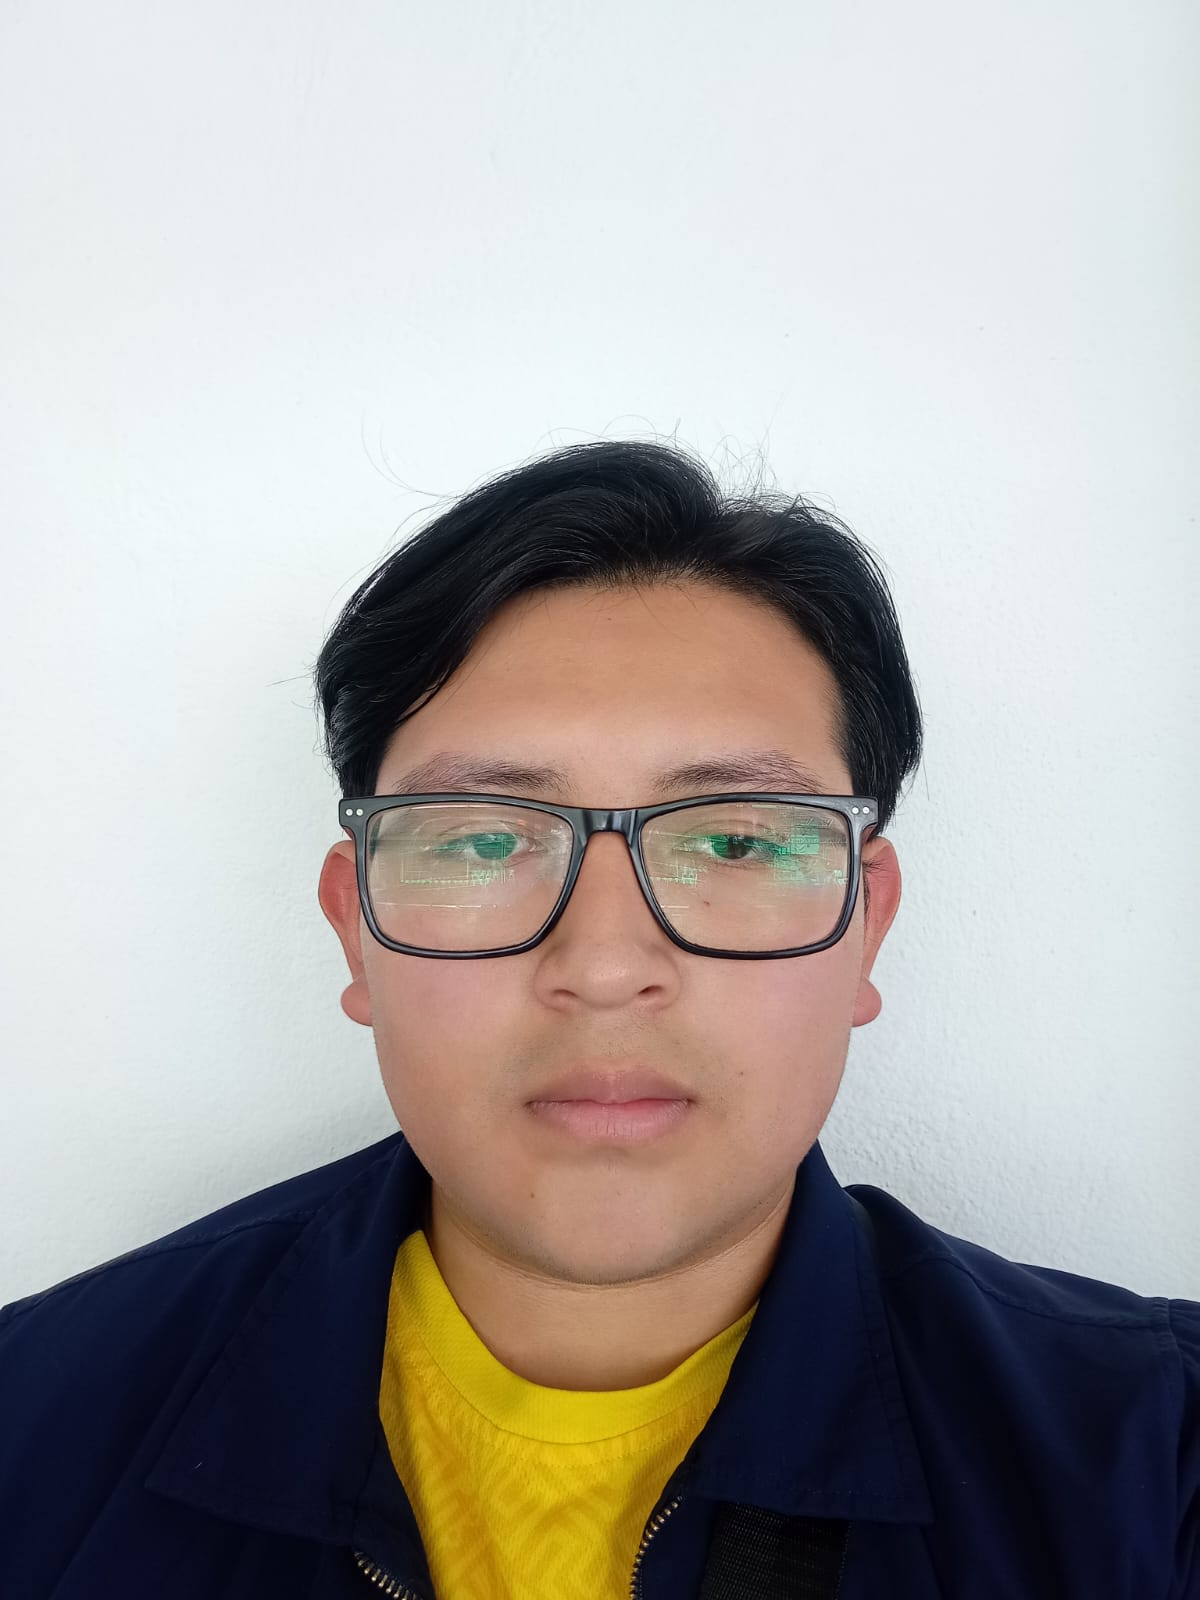
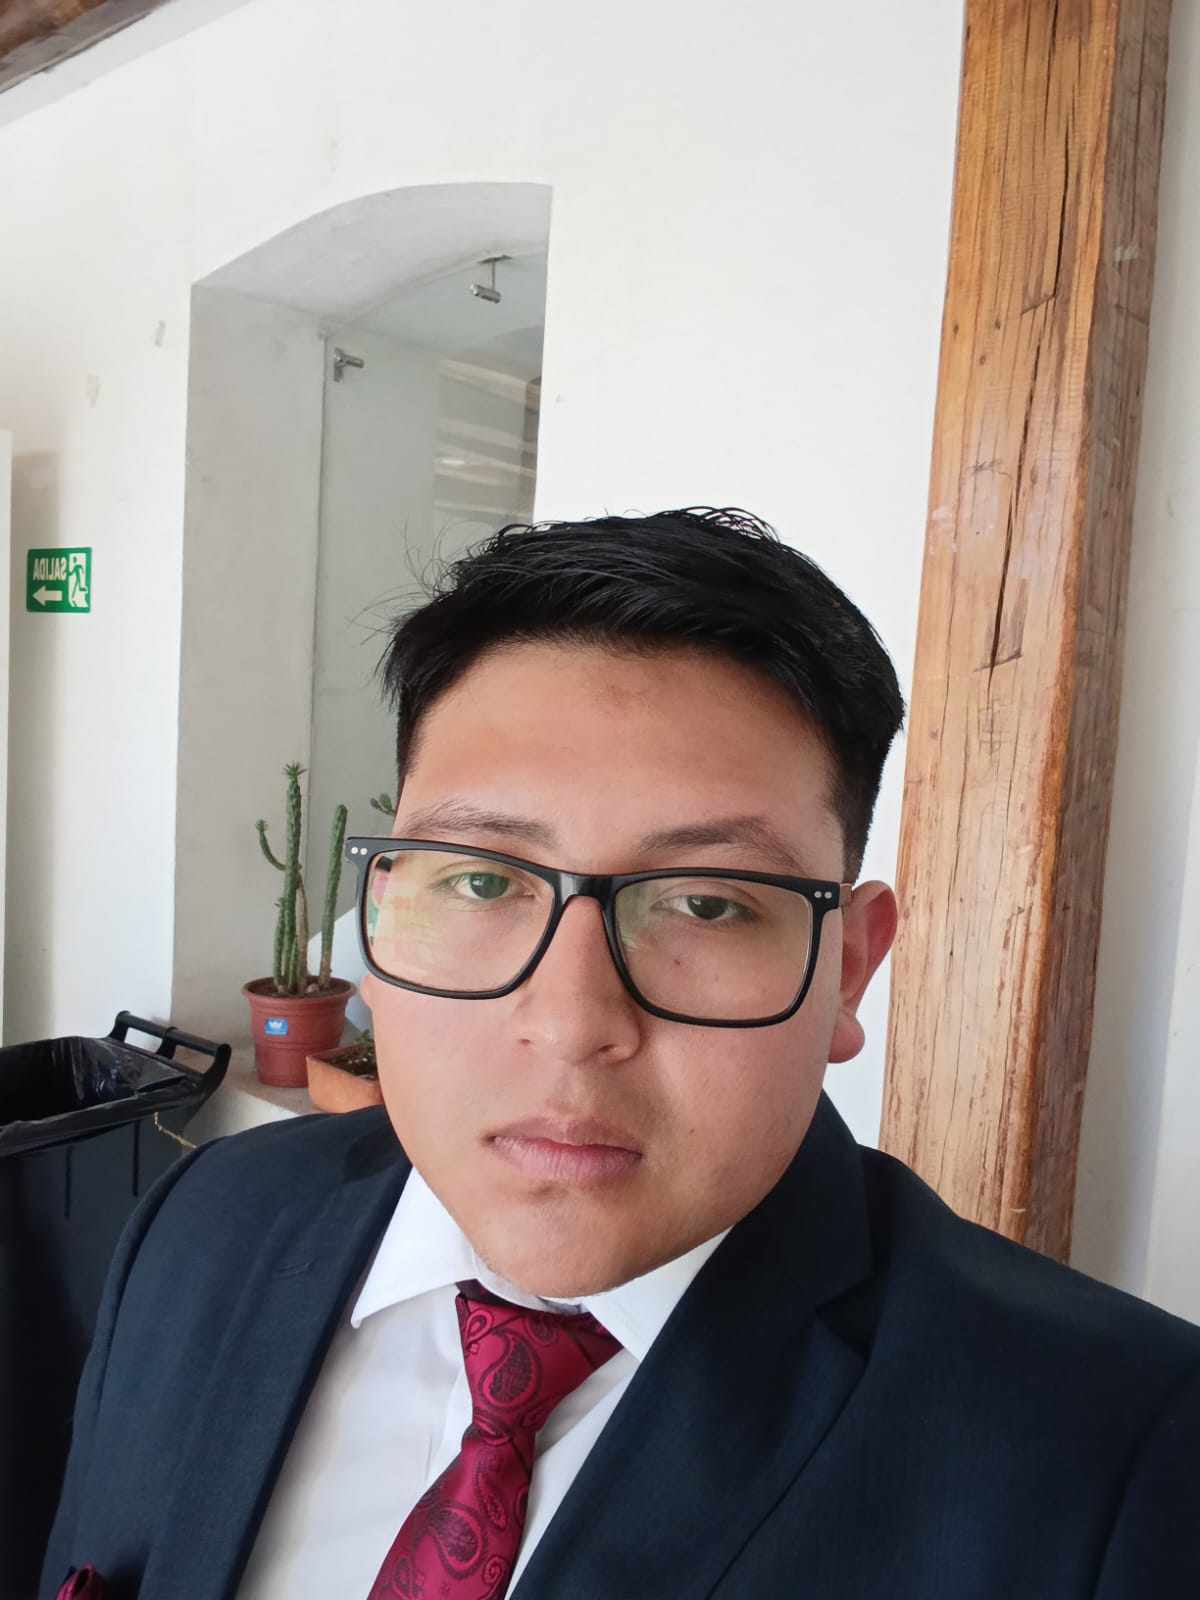
actualizacion exp

diff --git a/src/sections/Experience.tsx b/src/sections/Experience.tsx
@@ -1,9 +1,10 @@
 // src/sections/Experience.tsx
 import React from 'react';
 import fotoPerfil from '../assets/perfil.jpeg';
+import ExperienceCard, { type ExperienceItem } from '../components/ExperienceCard';
 
 const Experience: React.FC = () => {
-  const experiences = [
+  const experiences: ExperienceItem[] = [
     {
       id: 1,
       role: 'Practicante Full Stack Developer',
@@ -12,6 +13,17 @@ const Experience: React.FC = () => {
       hours: '1,440 horas acumuladas · 8-9 meses de prácticas preprofesionales',
       description:
         'Proyecto web full stack con Node.js, Express, Vue.js, PostgreSQL, MySQL y metodología Scrum.',
+
+    },
+    {
+      id: 2,
+      role: 'Asistente de TIC - Aplicaciones y Soporte',
+      company: 'Agencia Nacional de Transito',
+      period: 'Julio 2026 - octubre 2026',
+      hours: null,
+      description:
+        'Apoyo en el área de TIC, brindando soporte técnico y asistencia en aplicaciones en su debida documentacion',
+
     },
   ];
 
@@ -56,47 +68,19 @@ const Experience: React.FC = () => {
             Experiencia
           </h2>
 
-          <div className="relative border-l border-slate-600 ml-4 md:ml-6 pb-4">
-
-            {experiences.map((exp) => (
-              <div key={exp.id} className="relative pl-8 md:pl-12 mb-16">
-                <span className="absolute -left-2.75 top-6 w-5 h-5 bg-sky-400 rounded-full border-4 border-[#0f172a] shadow-[0_0_10px_rgba(56,189,248,0.5)]" />
-
-                <div className="border border-slate-700 bg-slate-800/30 backdrop-blur-sm rounded-2xl p-6 md:p-8 flex flex-col md:flex-row gap-6 md:gap-10 hover:border-sky-400/30 transition-colors">
-                  <div className="flex-1">
-                    <h3 className="text-sky-400 text-xl md:text-2xl font-medium mb-2">
-                      {exp.role}
-                    </h3>
-                    <p className="text-slate-300 font-medium mb-2">{exp.company}</p>
-                    <p className="text-slate-400 text-sm mb-1">{exp.period}</p>
-                    <p className="text-slate-500 text-xs leading-relaxed">{exp.hours}</p>
-                  </div>
-
-                  <div className="hidden md:block w-px bg-slate-600" />
-                  <div className="md:hidden h-px w-full bg-slate-600 my-2" />
-
-                  <div className="flex-1 flex items-center">
-                    <p className="text-slate-300 text-base md:text-lg leading-relaxed">
-                      {exp.description}
-                    </p>
-                  </div>
-                </div>
-              </div>
-            ))}
-
-            {/* Continuara*/}
-            <div className="relative">
-              <div className="absolute bottom-0 left-0 right-6 h-px bg-slate-600" />
-              <div className="absolute -right-0.75 -bottom-2.25 w-5 h-5 bg-sky-400 rounded-full border-4 border-[#0f172a] shadow-[0_0_10px_rgba(56,189,248,0.5)]" />
-              <div className="flex justify-end pr-12 pb-6">
-                <button className="border border-slate-500 hover:border-sky-400 text-sky-400 bg-[#0f172a] px-8 py-2 rounded-full font-medium transition-colors">
-                  Continuará...
-                </button>
-              </div>
+          <div className="ml-4 md:ml-6">
+            <div className="border-l border-slate-600">
+              {experiences.map((exp) => (
+                <ExperienceCard key={exp.id} experience={exp} />
+              ))}
             </div>
 
+            <div className="relative h-16 rounded-bl-2xl border-l border-b border-slate-600">
+              <span className="absolute right-0 bottom-0 translate-y-1/2 whitespace-nowrap rounded-full border border-sky-400/60 bg-[#0f172a] px-4 sm:px-8 py-2 text-sm sm:text-base font-medium text-sky-400">
+                Mi camino continúa
+              </span>
+            </div>
           </div>
-
         </div>
       </div>
     </section>

diff --git a/src/sections/Projects.tsx b/src/sections/Projects.tsx
@@ -1,12 +1,49 @@
+// src/sections/Projects.tsx
 import React from 'react';
-import ProjectsCard from '../components/ProjectCard';
+import ProjectCard, { type ProjectItem } from '../components/ProjectCard';
 
 const Projects: React.FC = () => {
+    const projects: ProjectItem[] = [
+        {
+            id: 1,
+            title: 'Practicante Full Stack Developer',
+            description:
+                'Proyecto web full stack con Node.js, Express, Vue.js, PostgreSQL, MySQL y metodología Scrum.',
+                img: '',
+            technologies: ['Node.js', 'Express', 'Vue.js', 'PostgreSQL', 'MySQL', 'Scrum'],
+            link: '',
+        },
+    ];
+
     return (
-        <section id="proyectos" className="min-h-screen flex flex-col justify-center px-6 pl-20 md:pl-32 py-20 ">
-        <ProjectsCard />
+        <section id="Proyectos">
+            <div className="min-h-screen flex flex-col justify-center px-6 pl-20 md:pl-32 py-20 ">
+                <div className="max-w-5xl w-full mx-auto">
+
+
+                    {/* ── Proyectos ── */}
+
+                    <h2 className="text-4xl md:text-5xl font-light text-white mb-12 tracking-wide">
+                        Proyectos
+                    </h2>
+
+                    <div className="ml-4 md:ml-6">
+                        <div className="border-l border-slate-600">
+                            {projects.map((project) => (
+                                <ProjectCard key={project.id} project={project} />
+                            ))}
+                        </div>
+
+                        <div className="relative h-16 rounded-bl-2xl border-l border-b border-slate-600">
+                            <span className="absolute right-0 bottom-0 translate-y-1/2 whitespace-nowrap rounded-full border border-sky-400/60 bg-[#0f172a] px-4 sm:px-8 py-2 text-sm sm:text-base font-medium text-sky-400">
+                                Mi camino continúa
+                            </span>
+                        </div>
+                    </div>
+                </div>
+            </div>
         </section>
     );
-}
+};
 
 export default Projects;

diff --git a/src/components/ExperienceCard.tsx b/src/components/ExperienceCard.tsx
@@ -1,39 +1,42 @@
 import React from 'react';
 
-export type ProjectItem = {
+export type ExperienceItem = {
   id: number;
-  title: string;
+  role: string;
+  company: string;
+  period: string;
+  hours: string | null;
   description: string;
-  img: string;
-  technologies: string[];
-  link: string;
 };
 
-type ProjectCardProps = {
-  project: ProjectItem;
+type ExperienceCardProps = {
+  experience: ExperienceItem;
 };
 
-const ProjectCard: React.FC<ProjectCardProps> = ({ project }) => (
+const ExperienceCard: React.FC<ExperienceCardProps> = ({ experience }) => (
   <div className="relative pl-8 md:pl-12 mb-16 last:mb-0">
     <span className="absolute -left-2.75 top-6 w-5 h-5 bg-sky-400 rounded-full border-4 border-[#0f172a] shadow-[0_0_10px_rgba(56,189,248,0.5)]" />
 
     <div className="border border-slate-700 bg-slate-800/30 backdrop-blur-sm rounded-2xl p-6 md:p-8 flex flex-col md:flex-row gap-6 md:gap-10 hover:border-sky-400/30 transition-colors">
       <div className="flex-1">
         <h3 className="text-sky-400 text-xl md:text-2xl font-medium mb-2">
-          {project.title}
+          {experience.role}
         </h3>
-        <p className="text-slate-300 font-medium mb-2">{project.description}</p>
+        <p className="text-slate-300 font-medium mb-2">{experience.company}</p>
+        <p className="text-slate-400 text-sm mb-1">{experience.period}</p>
+        <p className="text-slate-500 text-xs leading-relaxed">{experience.hours}</p>
       </div>
 
       <div className="hidden md:block w-px bg-slate-600" />
       <div className="md:hidden h-px w-full bg-slate-600 my-2" />
 
       <div className="flex-1 flex items-center">
-        <p className="text-slate-400 text-sm mb-1">{project.technologies}</p>
-        <p className="text-slate-500 text-xs leading-relaxed">{project.link}</p>
+        <p className="text-slate-300 text-base md:text-lg leading-relaxed">
+          {experience.description}
+        </p>
       </div>
     </div>
   </div>
 );
 
-export default ProjectCard;
+export default ExperienceCard;

diff --git a/index.html b/index.html
@@ -2,9 +2,9 @@
 <html lang="en">
   <head>
     <meta charset="UTF-8" />
-    <link rel="icon" type="image/svg+xml" href="/favicon.svg" />
+    <link rel="icon" type="image/svg+xml" href="/src/assets/logo_jfac.png" />
     <meta name="viewport" content="width=device-width, initial-scale=1.0" />
-    <title>portafolio</title>
+    <title>JUANFERDEV</title>
   </head>
   <body>
     <div id="root"></div>
